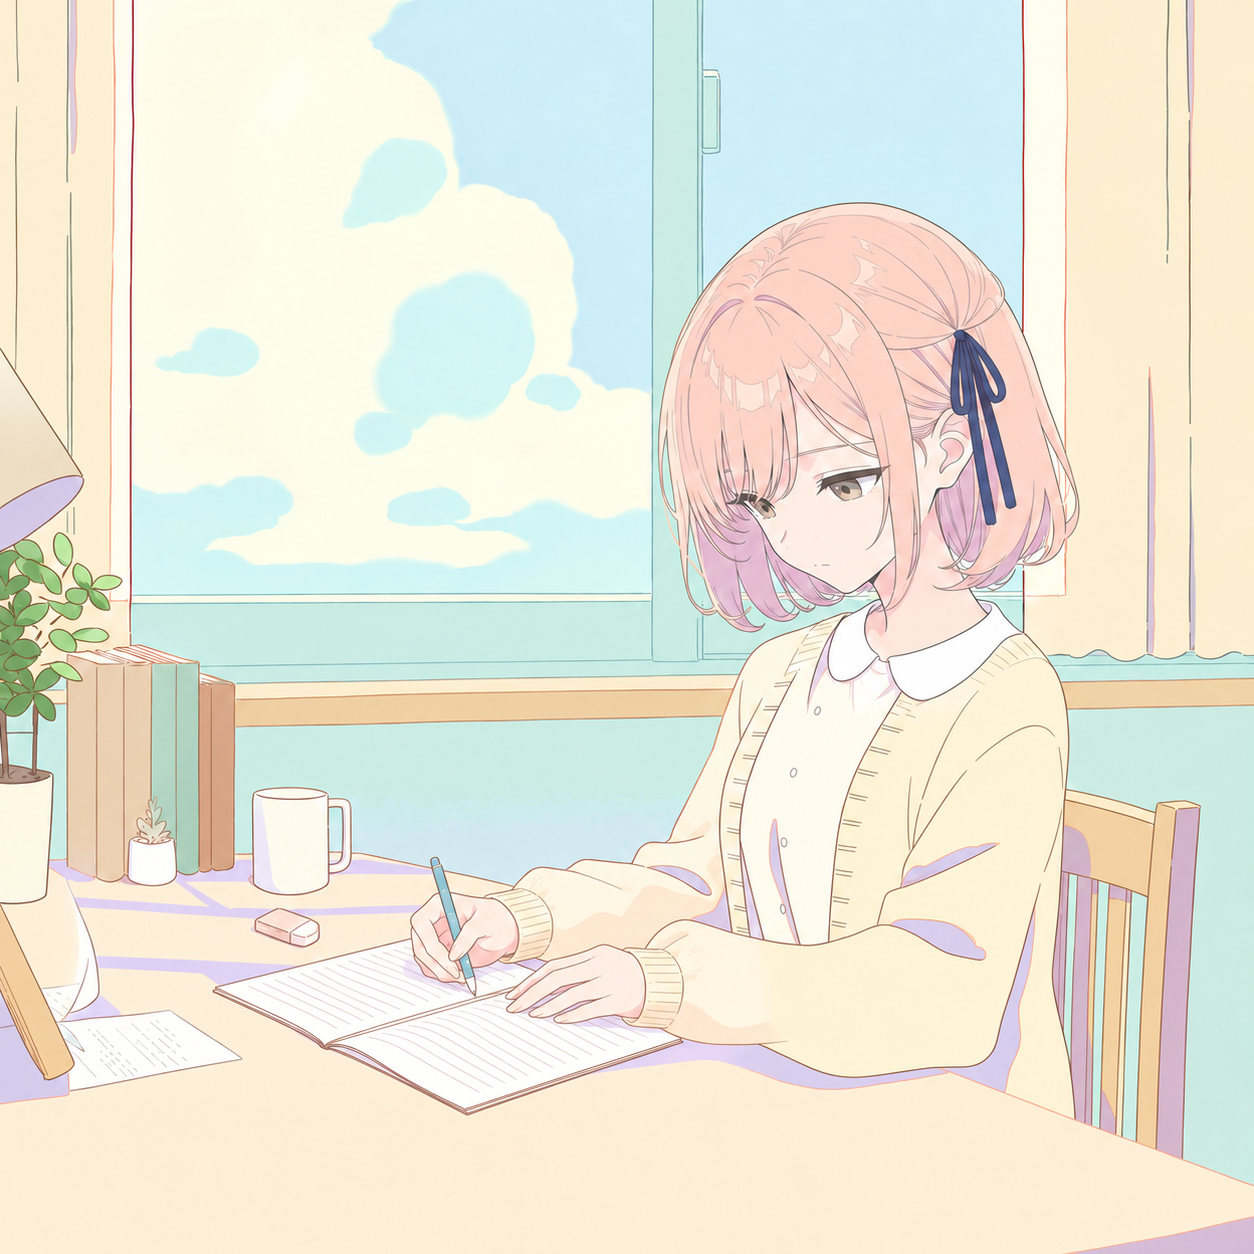
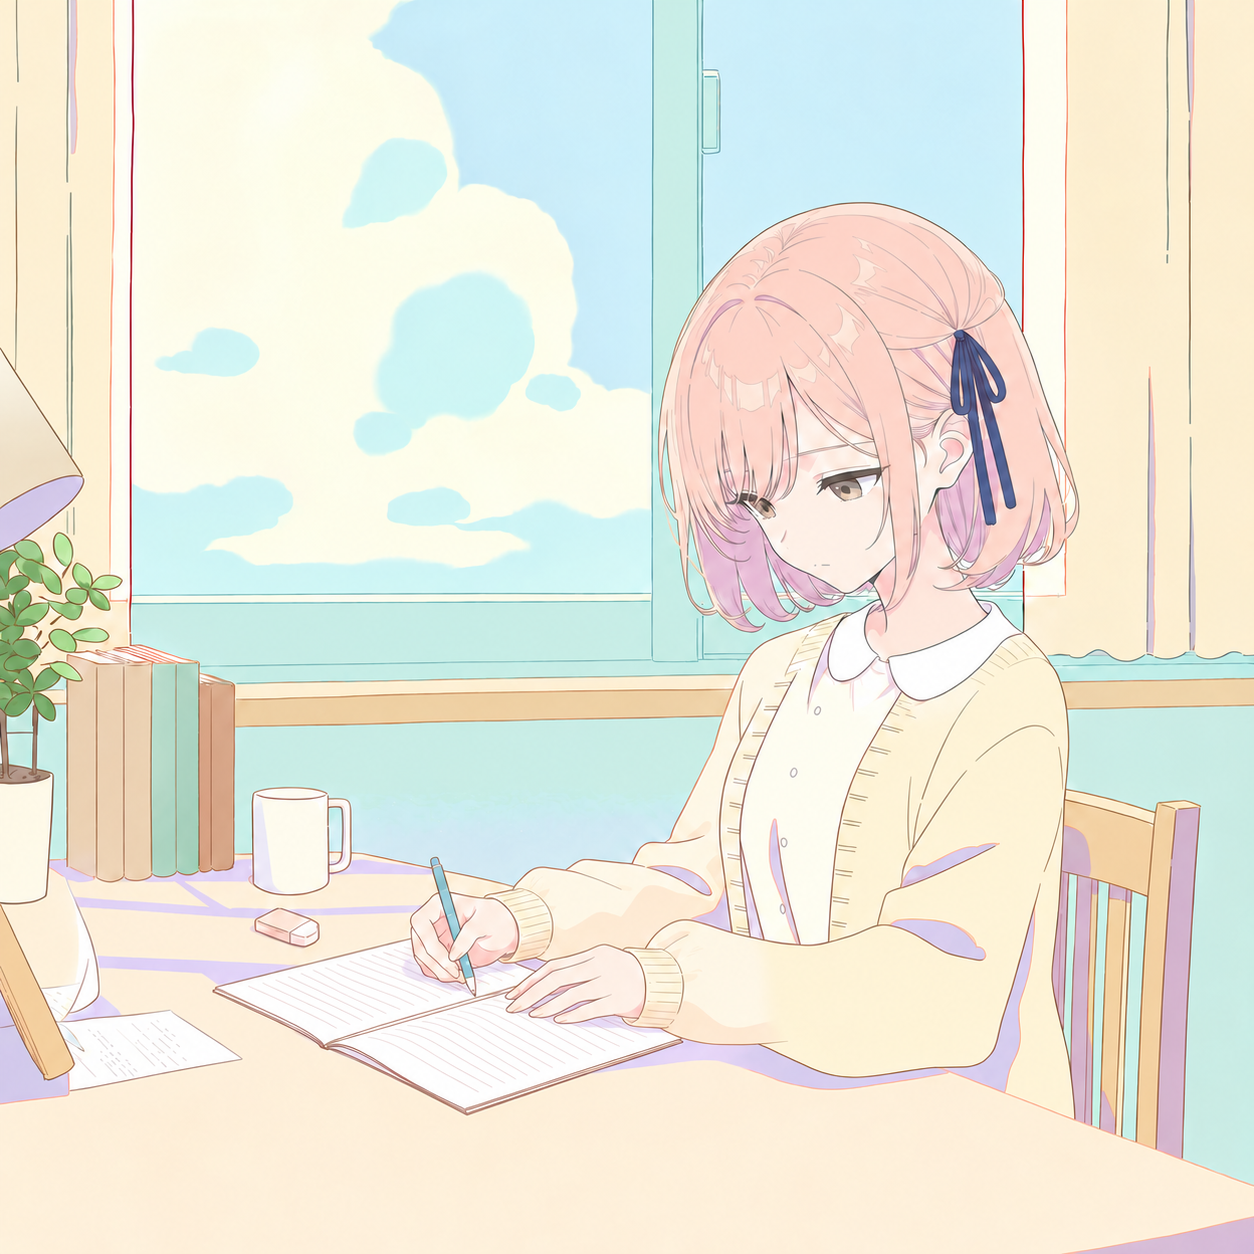
美术：采用获批交流手势与原脸型写字差分

Changed region(s): [[0.0933, 0.6531, 0.1555, 0.7153], [0.622, 0.4665, 0.6531, 0.4976], [0.0933, 0.4976, 0.1244, 0.5287]]

diff --git a/README.md b/README.md
@@ -14,7 +14,7 @@
 
 **最新（2026-10-16 22:48，赛中）：** 第一圈 GPT 底层已合入 main：邮箱／资料／文字记忆的开发主线，以及受限 MCP 客户端、私人存档与安全恢复、首件羽毛笔逻辑、安全诊断、正常模式 background／privacy 端口与原生配置入口。Claude 的迷你窗和晕染已合入，原生窗口也已接通。类型、lint、30 个文件／119 项单测、各条 Electron 流程和八个原生探针通过；22:47 新 NSIS 已在本机实际安装，SQLite／日志／计时／存档和界面重启验收通过。真实 IMAP 仍 blocked；学校 privacy URL 未提供，本轮模型验收使用 fake 或本机合成 HTTP，不能当真实质量验收。羽毛笔最终美术、真人桌面穿透手感、另一台干净机器复现待验收。详见 [第一圈收尾记录](docs/engineering/first-circle-closeout.md)、[部署说明](docs/deployment.md) 和 [技术说明初稿](docs/engineering/architecture.md)。
 
-**2026-10-16 美术精修已获用户批准：** 书本 Demo 已采用 NovelAI 原图经 GPT-image 精修的十张整景素材；写字本朝向她，睡姿改同机位近景且电脑和本子合上，夜间睡眠保留柔和夜灯，外出去向写在空房间桌上的纸条。用户同时授权接入、提交并向 Claude 交接；新工作方法见 [美术规格 §6.9](docs/art-spec.md#69-精修素材采用与-demo-接入2026-10-16-晚)，实际检查、素材映射与尚缺的匹配线稿见 [精修交接](docs/engineering/art-retouch-handoff.md)。这是源码与浏览器 Demo 的美术更新，不代表已有安装包已更新。
+**2026-10-16 美术精修已获用户批准：** 书本 Demo 已采用 NovelAI 原图经 GPT-image 精修的十张整景素材；写字本朝向她，睡姿改同机位近景且电脑和本子合上，夜间睡眠保留柔和夜灯，外出去向写在空房间桌上的纸条。后续获批五张替换：交流平静／浅笑使用双手交叠，轻微担心使用手指交叉；写字日夜两图保留原认可脸型，只去掉多余的小盆栽。两张拢杯候选继续待选。用户同时授权接入、提交并向 Claude 交接；新工作方法见 [美术规格 §6.9](docs/art-spec.md#69-精修素材采用与-demo-接入2026-10-16-晚)，实际检查、素材映射与线稿处理边界见 [精修交接](docs/engineering/art-retouch-handoff.md)。这是源码与浏览器 Demo 的美术更新，不代表已有安装包已更新。
 
 **早期记录（17:38；用户宣布的 0 h = 16:32 GMT+8）：** 脚手架、共享接口与受限 IPC 已落地；SQLite 在 Electron 内通过原生加载和落盘重开，类型检查、lint、Vitest 与 Electron smoke 已通过。163 IMAP 连接在认证前被重置，邮件管线尚未接通；Clash/TUN 是待排查因素。详细结果、延期依赖与未完成项见 [首批工程记录](docs/engineering/first-hour.md)。下段保留赛前状态作历史背景。
 

diff --git a/docs/engineering/art-retouch-handoff.md b/docs/engineering/art-retouch-handoff.md
@@ -1,5 +1,27 @@
 # 精修素材接入与 Claude 交接（2026-10-16）
 
+## 后续五张替换（当前采用）
+
+用户逐轮审图后明确授权：“非常好图片，替换现有素材并提交。”本轮保持十张正式素材的稳定文件名，更新五张：
+
+| 运行素材 | 采用版本 | 变化 |
+| --- | --- | --- |
+| `facing-user_calm.png` | v5 hands-overlap calm | 自然转向用户，双手交叠轻放桌面 |
+| `facing-user_smile.png` | v7 hands-overlap smile | 同一姿态的克制浅笑 |
+| `facing-user_worried.png` | v8 interlaced worried | 轻微担心表情，手指松弛交叉，便于区分 |
+| `desk-writing_calm.png` | v8 original-face day | 从原采用日图去掉书前小盆栽，沿用原脸型 |
+| `desk-writing_night.png` | v8 original-face night | 从原采用夜图去掉小盆栽，沿用原脸型与夜灯 |
+
+写字没有采用 v7 改视线／俯仰后的脸；大盆栽保留。v6 两张拢杯图继续作为本机候选，尚未选定。本轮不改状态选择、着色器、对白或主进程；书本、新手流程与迷你窗沿用同一素材入口。当前着色器从彩图实时提取铅笔底，已经不依赖旧线稿；下方首次接入记录保留其历史状态。
+
+当前映射见 [`art/retouch-adopted.json`](../../art/retouch-adopted.json)，本轮原图来源、提示词、替换前后 SHA-256 见 [`art/retouch-round2-adopted.json`](../../art/retouch-round2-adopted.json)。只复制获批 PNG，没有再次生成或缩放。此前的候选 pending 标记不影响这五张的本次批准。
+
+本轮检查：`pnpm build` 通过，十张构建产物的 SHA-256 与采用清单一致；`pnpm exec vitest run tests/unit/character-art.test.ts` 的 5 项通过。Chrome 假数据预览连续切换平静、浅笑、担心、写字夜景、清醒熄灯与睡眠夜灯，在 1600×1000、1280×720 两种窗口共 12 次检查中，实际素材、WebGL 绘制入口和光照模式正确，夜景无重复滤镜；迷你窗另核验五张资源映射与哈希。未发现页面脚本或 HTTP 加载错误。原图和书页截图已人工复核，迷你窗仍沿用原有固定裁切，并非本轮重新设计。详细结果见 [本轮预览记录](art-retouch-round2-review.json)，截图保留在精修 worktree 的 `.local-data/art-review-round2/`。
+
+本轮只验收美术接入与浏览器假数据展示，不包含真实业务、Electron 透明／点穿行为或安装包；未重新打包。
+
+## 首次整套接入记录
+
 ## 用户授权
 
 本批来自用户专门开设的 NovelAI 精修对话。用户逐轮审图，最后明确：

diff --git a/docs/art-spec.md b/docs/art-spec.md
@@ -404,13 +404,16 @@ lowres, artistic error, worst quality, bad quality, jpeg artifacts, very displea
 
 当前采用十张 1254×1254 PNG，完整映射与历史生成记录见 [`art/retouch-adopted.json`](../art/retouch-adopted.json)，运行素材在 `src/renderer/src/assets/character/taozi/approved/`：
 
-- v1 看电脑、面向用户的平静／浅笑／担心四张：修正头颈与领口，保留已认可的身份和表情。
-- v2 写字日景：本子朝向她，书脊和横线遵守桌面透视，取代 v1 朝向观众的本子。
+- v1 看电脑：修正头颈与领口，保留已认可的身份和表情。
+- 面向用户采用 v5 双手交叠平静、v7 双手交叠浅笑、v8 手指交叉轻微担心：上身自然转向用户，手离开电脑并在桌面上有支点；担心通过轻微表情和手势共同区分。
+- v8 写字日景：从原已认可的 v2 写字图出发，保留原脸型、视线和头部俯仰，只去掉书脊前多余的小盆栽；本子仍朝向她，远左侧大盆栽保留。
 - v2 近景睡眠日景：同一机位，趴在交叠手臂上，电脑和笔记本均合上。
 - v2 空房间日景：同机位空椅子，去向由状态写到画内桌上纸条，外出时撤去“休息”牌。
-- v2 写字夜景：深蓝窗外，左侧台灯照到脸、手和纸面。
+- v8 写字夜景：同样从原 v2 夜图只去掉小盆栽，沿用原脸型与灯光；深蓝窗外，左侧台灯照到脸、手和纸面。
 - v3 睡眠夜灯：作为通常夜间睡姿，现有左灯低亮度照亮附近桌面，再轻触近侧头发、面颊和袖子；远处保持冷暗。用户提供的外部参考只供人眼理解走光，未输入生成工具。
 - v2 睡眠全暗：仅在睡姿且显式熄灯时使用。熄灯是暂停状态，本身不能把清醒姿势换成睡眠。
+
+用户随后以“非常好图片，替换现有素材并提交”批准本轮五张替换。准确输出、提示词、SHA-256 和被替换版本见 [`art/retouch-round2-adopted.json`](../art/retouch-round2-adopted.json)。v6 两张拢杯平静候选仍保留待选；v7 改过脸型的写字候选不采用。此轮直接复制获批原图，不缩放、不再次生成。
 
 **运行契约：** 本批所有姿势均为固定机位整景；睡眠和外出不再切到旧远景。写字夜景和睡眠夜景已有画内照明，跳过旧整图滤镜和灯光叠层，时钟与状态牌单独调暗。其他姿势尚无专用夜景，暂沿用环境调色；清醒熄灯也用日景加暗色、关闭叠加灯，不能冒充已完成物理重光。
 
